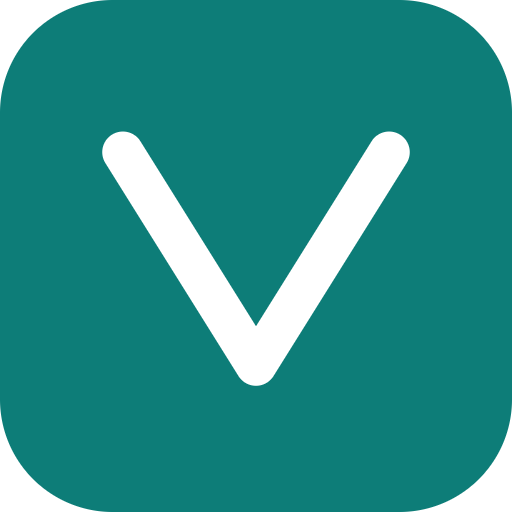
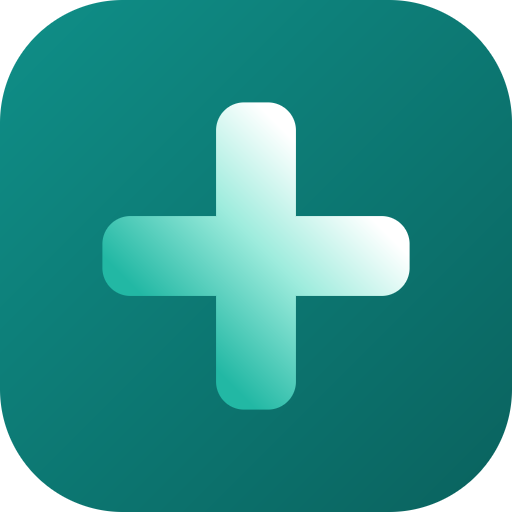
Troca a marca por uma cruz de saúde com degradê do verde ao branco
O "V" genérico não dizia nada sobre o que o projeto faz. A cruz comunica saúde
antes de qualquer texto ser lido.

A cruz fica sobre o quadrado teal em vez de solta: o degradê termina em branco,
e num fundo claro essa ponta desapareceria. O quadrado garante que a marca
funcione nos dois temas e sobre qualquer superfície.

Dois detalhes de degradê que só apareceram ao olhar o resultado renderizado:

- No SVG, aplicar o gradiente num <g> faz cada retângulo receber a própria
  caixa delimitadora, então a cruz saía com dois degradês independentes em vez
  de um contínuo. Resolvido com gradientUnits="userSpaceOnUse".
- O eixo do degradê ia de canto a canto da caixa. Numa cruz os cantos estão
  vazios, então metade da rampa era gasta em pixels que não existem e a figura
  nunca chegava nem ao verde cheio nem ao branco. Agora o eixo vai de ponta a
  ponta da própria cruz.

O gerador de ícones acompanha os mesmos valores e geometria do componente, e
o comentário no arquivo diz isso — mudou um, roda o outro.

diff --git a/src/components/Logo.tsx b/src/components/Logo.tsx
@@ -1,0 +1,70 @@
+/**
+ * Marca do Vitalog: cruz de saúde com degradê do verde para o branco.
+ *
+ * A cruz fica sobre um quadrado teal em vez de solta sobre a página: o degradê
+ * termina em branco, e num fundo claro essa ponta simplesmente desapareceria.
+ * O quadrado garante que a marca funcione nos dois temas e sobre qualquer
+ * superfície.
+ *
+ * O `id` do gradiente é parametrizado porque a marca aparece mais de uma vez na
+ * mesma página (cabeçalho e rodapé, por exemplo) e ids repetidos em SVG fazem o
+ * navegador aplicar o primeiro a todos.
+ */
+export function LogoMark({
+  size = 28,
+  id = "vitalog-mark",
+  className = "",
+}: {
+  size?: number;
+  id?: string;
+  className?: string;
+}) {
+  return (
+    <svg
+      width={size}
+      height={size}
+      viewBox="0 0 100 100"
+      role="img"
+      aria-label="Vitalog"
+      className={className}
+    >
+      <defs>
+        <linearGradient id={`${id}-bg`} x1="0" y1="0" x2="1" y2="1">
+          <stop offset="0%" stopColor="#0f8f88" />
+          <stop offset="100%" stopColor="#0a625e" />
+        </linearGradient>
+        {/* Do verde (base esquerda) ao branco (topo direita).
+            `userSpaceOnUse` é essencial: no padrão objectBoundingBox cada
+            retângulo do grupo receberia a própria caixa, e a cruz sairia com
+            dois degradês independentes em vez de um contínuo. As coordenadas
+            vão da ponta de baixo à ponta de cima da cruz — não dos cantos da
+            caixa, que numa cruz estão vazios e desperdiçariam metade da rampa
+            em pixels que não existem. */}
+        <linearGradient
+          id={`${id}-cross`}
+          gradientUnits="userSpaceOnUse"
+          x1="34" y1="66" x2="66" y2="34"
+        >
+          <stop offset="0%" stopColor="#22b8a4" />
+          <stop offset="55%" stopColor="#9eecdd" />
+          <stop offset="100%" stopColor="#ffffff" />
+        </linearGradient>
+      </defs>
+
+      <rect width="100" height="100" rx="24" fill={`url(#${id}-bg)`} />
+      <g fill={`url(#${id}-cross)`}>
+        <rect x="37" y="18" width="26" height="64" rx="9" />
+        <rect x="18" y="37" width="64" height="26" rx="9" />
+      </g>
+    </svg>
+  );
+}
+
+export function Logo({ size = 28 }: { size?: number }) {
+  return (
+    <span className="flex items-center gap-2 font-semibold tracking-tight">
+      <LogoMark size={size} />
+      Vitalog
+    </span>
+  );
+}

diff --git a/src/app/layout.tsx b/src/app/layout.tsx
@@ -1,6 +1,7 @@
 import type { Metadata, Viewport } from "next";
 import Link from "next/link";
 import { Geist, Geist_Mono } from "next/font/google";
+import { Logo } from "@/components/Logo";
 import "./globals.css";
 
 const geistSans = Geist({ variable: "--font-geist-sans", subsets: ["latin"] });
@@ -73,14 +74,8 @@ export default function RootLayout({ children }: LayoutProps<"/">) {
             inacessível — e "Enviar laudo" quebrava no meio. */}
         <header className="border-b border-border bg-surface">
           <div className="mx-auto flex max-w-6xl flex-wrap items-center gap-x-6 gap-y-1 px-5 py-3">
-            <Link href="/" className="flex items-center gap-2 font-semibold tracking-tight">
-              <span
-                aria-hidden
-                className="grid h-7 w-7 place-items-center rounded-md bg-accent text-sm text-white"
-              >
-                V
-              </span>
-              Vitalog
+            <Link href="/" className="transition-opacity hover:opacity-80">
+              <Logo />
             </Link>
             <nav className="-mx-1 flex w-full items-center gap-0.5 overflow-x-auto text-sm sm:w-auto sm:gap-1 sm:overflow-visible">
               {NAV.map((item) => (

diff --git a/scripts/generate-icons.py b/scripts/generate-icons.py
@@ -1,19 +1,24 @@
 """
-Gera os ícones do PWA a partir da mesma marca usada no cabeçalho do site:
-um "V" branco sobre teal.
+Gera os ícones do PWA a partir da mesma marca do cabeçalho do site:
+uma cruz de saúde com degradê do verde para o branco, sobre um quadrado teal.
 
-Sem dependência de imagem instalada (nem Pillow, nem ImageMagick): escreve o
-PNG diretamente e desenha por campo de distância, o que dá antialiasing limpo
-sem precisar de supersampling.
+Sem dependência de biblioteca de imagem (nem Pillow, nem ImageMagick): escreve
+o PNG direto e desenha por campo de distância, o que dá antialiasing limpo sem
+precisar de supersampling.
 
     python3 scripts/generate-icons.py
 
-Regenerar só é necessário se a marca mudar.
+Os valores de cor e a geometria acompanham src/components/Logo.tsx — mudou lá,
+rode isto de novo.
 """
 import math, struct, zlib
 
-TEAL = (13, 125, 120)          # --accent do tema claro
-WHITE = (255, 255, 255)
+BG_FROM, BG_TO = (0x0F, 0x8F, 0x88), (0x0A, 0x62, 0x5E)
+CROSS_STOPS = [
+    (0.00, (0x22, 0xB8, 0xA4)),
+    (0.55, (0x9E, 0xEC, 0xDD)),
+    (1.00, (0xFF, 0xFF, 0xFF)),
+]
 
 def write_png(path, w, h, px):
     raw = b"".join(b"\x00" + bytes(px[y * w * 4:(y + 1) * w * 4]) for y in range(h))
@@ -26,67 +31,89 @@ def write_png(path, w, h, px):
     out += chunk(b"IEND", b"")
     open(path, "wb").write(out)
 
-def seg_dist(px, py, ax, ay, bx, by):
-    """Distância de um ponto ao segmento AB."""
-    dx, dy = bx - ax, by - ay
-    t = ((px - ax) * dx + (py - ay) * dy) / (dx * dx + dy * dy)
-    t = max(0.0, min(1.0, t))
-    return math.hypot(px - (ax + t * dx), py - (ay + t * dy))
+def rrect(px, py, cx, cy, halfw, halfh, r):
+    """Distância assinada de um ponto a um retângulo de cantos arredondados."""
+    dx = abs(px - cx) - (halfw - r)
+    dy = abs(py - cy) - (halfh - r)
+    return math.hypot(max(dx, 0.0), max(dy, 0.0)) + min(max(dx, dy), 0.0) - r
+
+def project(px, py, x0, y0, x1, y1):
+    """Posição 0..1 do ponto ao longo do eixo do degradê."""
+    dx, dy = x1 - x0, y1 - y0
+    t = ((px - x0) * dx + (py - y0) * dy) / (dx * dx + dy * dy)
+    return max(0.0, min(1.0, t))
+
+def ramp(t, stops):
+    for i in range(len(stops) - 1):
+        t0, c0 = stops[i]
+        t1, c1 = stops[i + 1]
+        if t <= t1 or i == len(stops) - 2:
+            k = 0.0 if t1 == t0 else max(0.0, min(1.0, (t - t0) / (t1 - t0)))
+            return tuple(c0[j] + (c1[j] - c0[j]) * k for j in range(3))
+    return stops[-1][1]
 
 def render(size, radius_frac, scale, opaque_bg):
     """
-    radius_frac: raio do canto (0 = quadrado). O iOS arredonda sozinho, então o
-    ícone da Apple sai quadrado e opaco — com cantos transparentes ele ficaria
-    com bordas pretas na tela de início.
-    scale: tamanho do "V" dentro do quadro. Menor = mais margem, necessário para
-    ícones maskable do Android, que sofrem recorte.
+    radius_frac: raio do canto do quadrado (0 = quadrado reto). O iOS arredonda
+    sozinho, então o ícone da Apple sai reto e opaco — com cantos transparentes
+    ele ganharia bordas pretas na tela de início.
+    scale: tamanho da cruz dentro do quadro. Menor = mais margem, necessário no
+    ícone maskable do Android, que sofre recorte.
     """
     px = bytearray(size * size * 4)
     r = radius_frac * size
-    # Traço do V, em coordenadas normalizadas e centrado.
     c = size / 2
-    half = size * scale / 2
-    ax, ay = c - half, c - half * 0.78
-    mx, my = c, c + half * 0.82
-    bx, by = c + half, c - half * 0.78
-    stroke = size * scale * 0.155
+    arm = size * scale            # comprimento total do braço
+    thick = arm * 0.26            # espessura, proporcional ao braço
+    tip = thick * 0.35            # arredondamento das pontas
 
     for y in range(size):
         for x in range(size):
             fx, fy = x + 0.5, y + 0.5
 
-            # Cobertura do fundo (retângulo arredondado por campo de distância).
+            # Fundo: quadrado arredondado com degradê diagonal.
             if radius_frac <= 0:
-                bg = 1.0
+                bg_cov = 1.0
             else:
-                qx = max(abs(fx - c) - (c - r), 0.0)
-                qy = max(abs(fy - c) - (c - r), 0.0)
-                bg = max(0.0, min(1.0, 0.5 - (math.hypot(qx, qy) - r)))
+                bg_cov = max(0.0, min(1.0, 0.5 - rrect(fx, fy, c, c, c, c, r)))
+            tb = project(fx, fy, 0, 0, size, size)
+            br = BG_FROM[0] + (BG_TO[0] - BG_FROM[0]) * tb
+            bgc = BG_FROM[1] + (BG_TO[1] - BG_FROM[1]) * tb
+            bb = BG_FROM[2] + (BG_TO[2] - BG_FROM[2]) * tb
 
-            # Cobertura do V.
-            d = min(seg_dist(fx, fy, ax, ay, mx, my),
-                    seg_dist(fx, fy, mx, my, bx, by))
-            v = max(0.0, min(1.0, 0.5 - (d - stroke / 2)))
+            # Cruz: união de dois retângulos arredondados.
+            d = min(
+                rrect(fx, fy, c, c, thick / 2, arm / 2, tip),
+                rrect(fx, fy, c, c, arm / 2, thick / 2, tip),
+            )
+            cov = max(0.0, min(1.0, 0.5 - d))
+            # Degradê da cruz: do verde na base esquerda ao branco no topo
+            # direito. O eixo vai de ponta a ponta da CRUZ (arm/4), não dos
+            # cantos da caixa (arm/2): numa cruz os cantos estão vazios, e medir
+            # por eles jogava metade da rampa em pixels que não existem — a
+            # figura nunca chegava nem ao verde cheio nem ao branco.
+            tc = project(fx, fy, c - arm / 4, c + arm / 4, c + arm / 4, c - arm / 4)
+            cr, cg, cbl = ramp(tc, CROSS_STOPS)
 
-            rr = TEAL[0] * (1 - v) + WHITE[0] * v
-            gg = TEAL[1] * (1 - v) + WHITE[1] * v
-            bb = TEAL[2] * (1 - v) + WHITE[2] * v
-            a = 255 if opaque_bg else int(round(bg * 255))
+            rr = br * (1 - cov) + cr * cov
+            gg = bgc * (1 - cov) + cg * cov
+            bbb = bb * (1 - cov) + cbl * cov
+            a = 255 if opaque_bg else int(round(bg_cov * 255))
 
             i = (y * size + x) * 4
             px[i] = int(round(rr)); px[i+1] = int(round(gg))
-            px[i+2] = int(round(bb)); px[i+3] = a
+            px[i+2] = int(round(bbb)); px[i+3] = a
     return px
 
 targets = [
-    # (arquivo, tamanho, raio, escala do V, fundo opaco)
-    ("public/icon-192.png",           192, 0.22, 0.52, False),
-    ("public/icon-512.png",           512, 0.22, 0.52, False),
-    # Maskable: Android recorta em círculo/squircle, então o V vive na zona
+    # (arquivo, tamanho, raio, escala da cruz, fundo opaco)
+    ("public/icon-192.png",          192, 0.24, 0.60, False),
+    ("public/icon-512.png",          512, 0.24, 0.60, False),
+    # Maskable: Android recorta em círculo/squircle, então a cruz fica na zona
     # segura (~60% central) e o fundo sangra até a borda.
-    ("public/icon-maskable-512.png",  512, 0.0,  0.38, True),
-    # iOS arredonda sozinho: quadrado, opaco, sem transparência.
-    ("public/apple-icon.png",         180, 0.0,  0.52, True),
+    ("public/icon-maskable-512.png", 512, 0.0,  0.44, True),
+    # iOS arredonda sozinho: quadrado reto, opaco, sem transparência.
+    ("public/apple-icon.png",        180, 0.0,  0.60, True),
 ]
 
 for path, size, radius, scale, opaque in targets:
